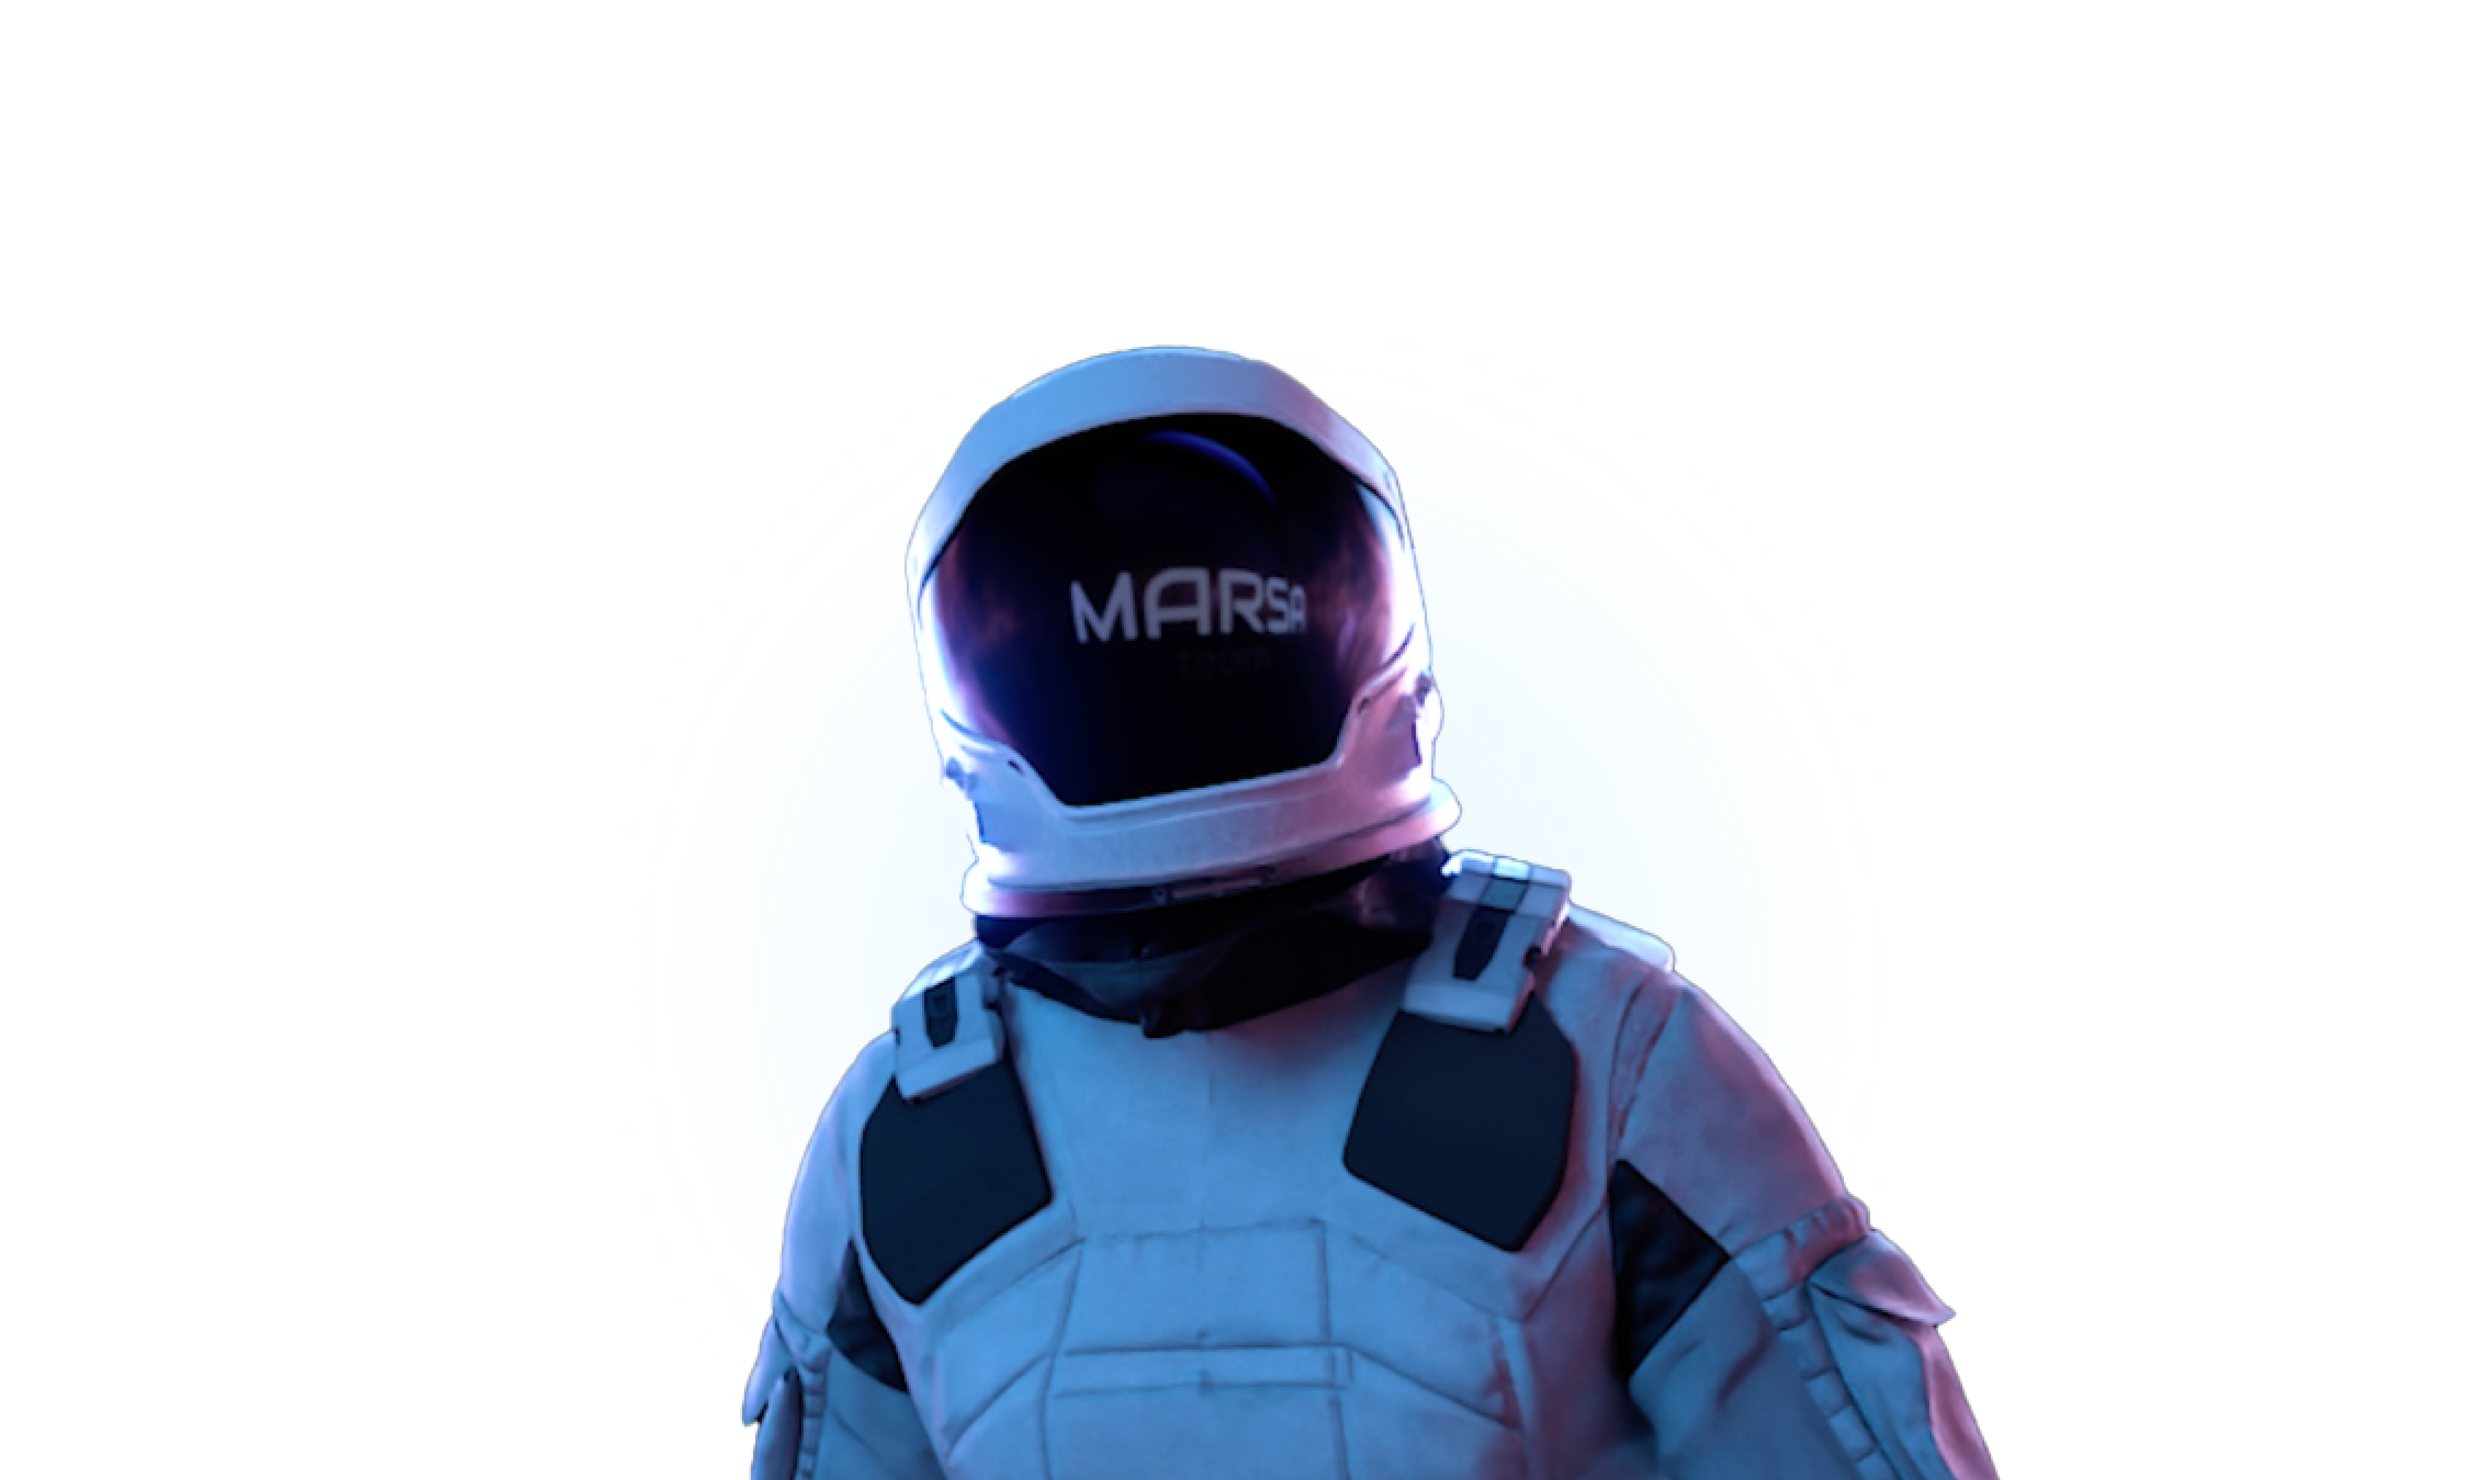
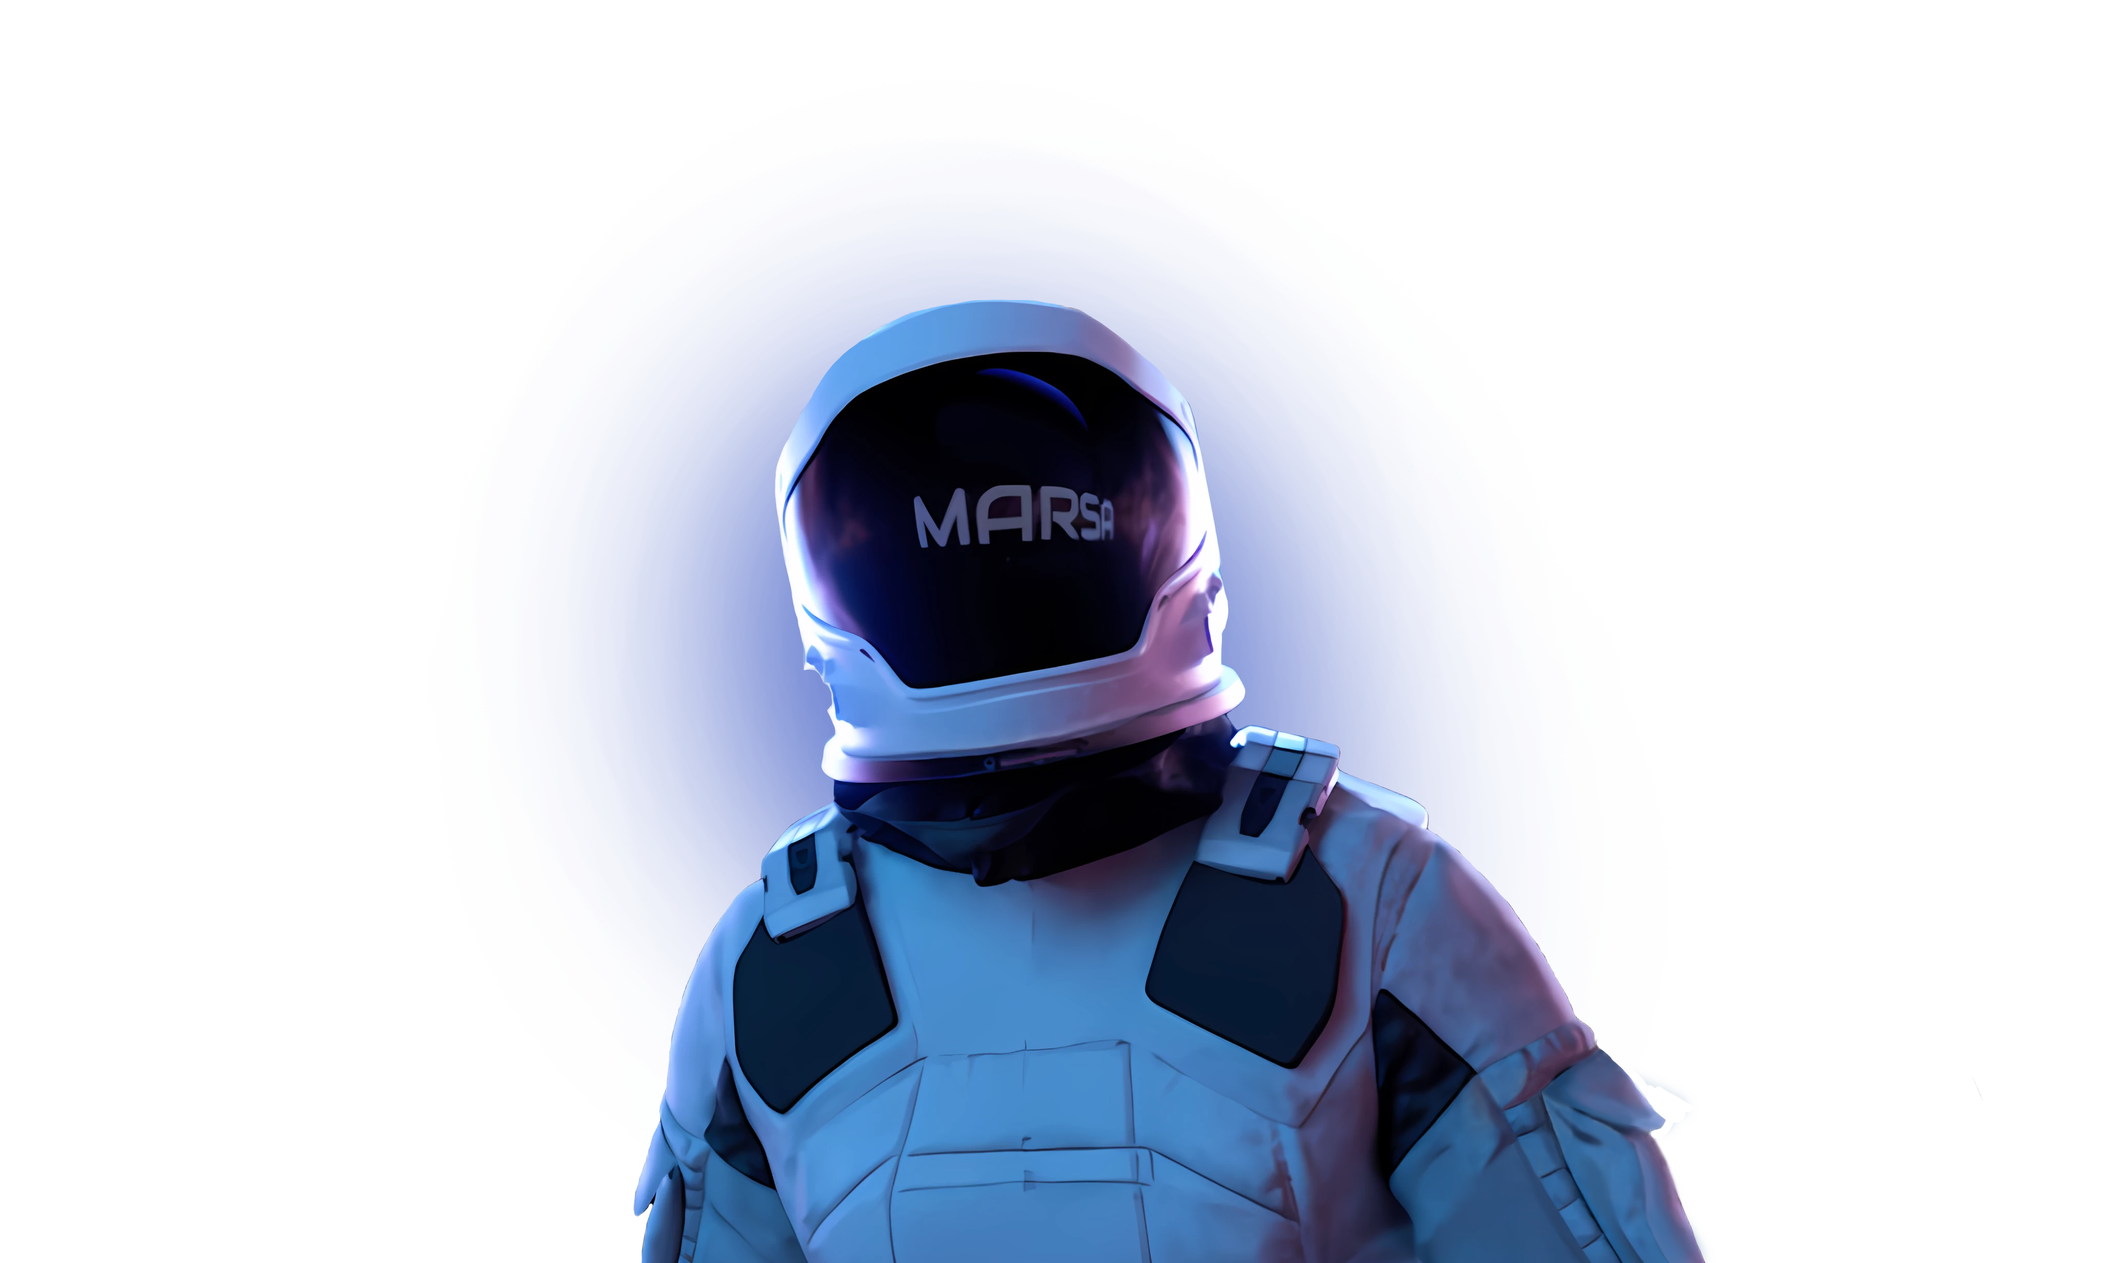
fix: bugs

diff --git a/src/modules/friend/friend.module.scss b/src/modules/friend/friend.module.scss
@@ -75,7 +75,7 @@
 			width: 336px;
 			height: 50px;
 
-			font-size: 14px;
+			font-size: 13px;
 		}
 	}
 
@@ -89,8 +89,9 @@
 		}
 
 		@include tablet-small {
-			margin-top: -80px;
-
+			margin-top: -60px;
+			width: 150%;
+			height: 150%;
 		}
 	}
 }
